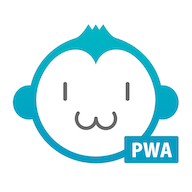
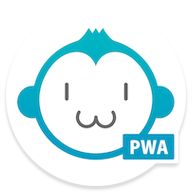
新的 Android PWA 图标

diff --git a/src/api.js b/src/api.js
@@ -70,7 +70,7 @@ export default new Vue({
           throw new Error(reason)
         }
       } else {
-        Vue.toasted.show('请求失败：系统维护')
+        Vue.toasted.show(`请求出错 (${ httpStatus })`)
         throw new Error('Request failed with status ' + httpStatus)
       }
     }

diff --git a/src/pages/Index.vue b/src/pages/Index.vue
@@ -3,11 +3,8 @@
 </template>
 <style lang="stylus">
   .index-hint
-    position absolute !important
-    top 0 
-    right 0
-    bottom 0
-    left 0
+    min-height unset !important
+    height 85vh !important
     display flex
     align-items center
     justify-content center

diff --git a/src/App.vue b/src/App.vue
@@ -405,7 +405,6 @@
       bottom 0
       bottom constant(safe-area-inset-bottom)
       bottom env(safe-area-inset-bottom)
-      max-width 1200px
       margin 0 auto
       display flex
       flex-direction row
